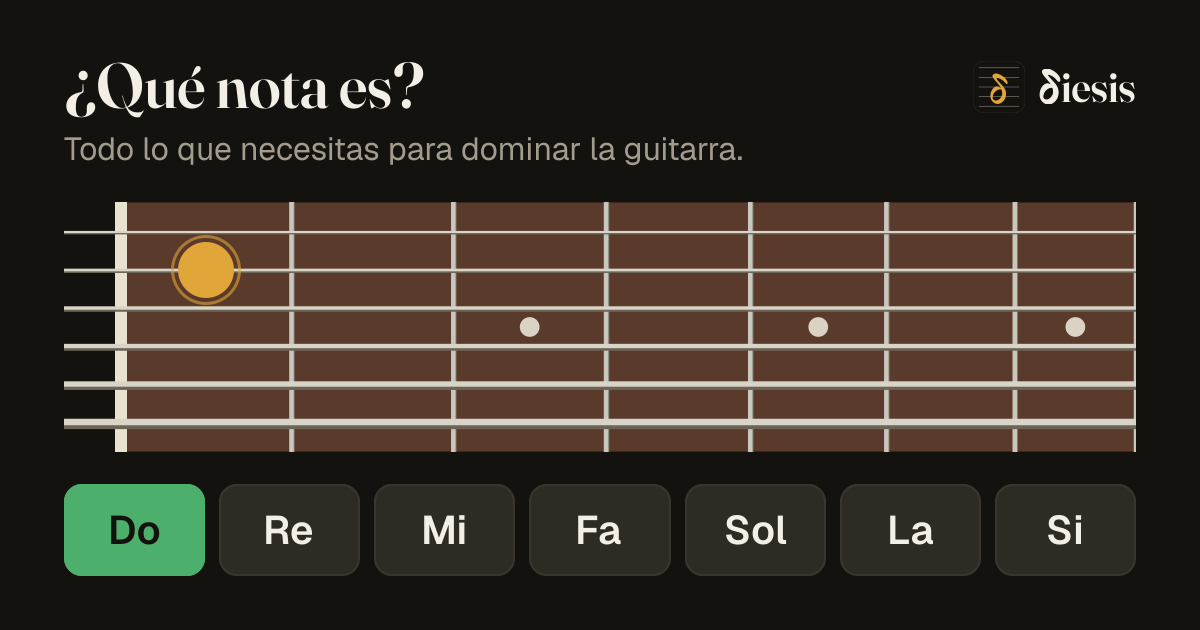
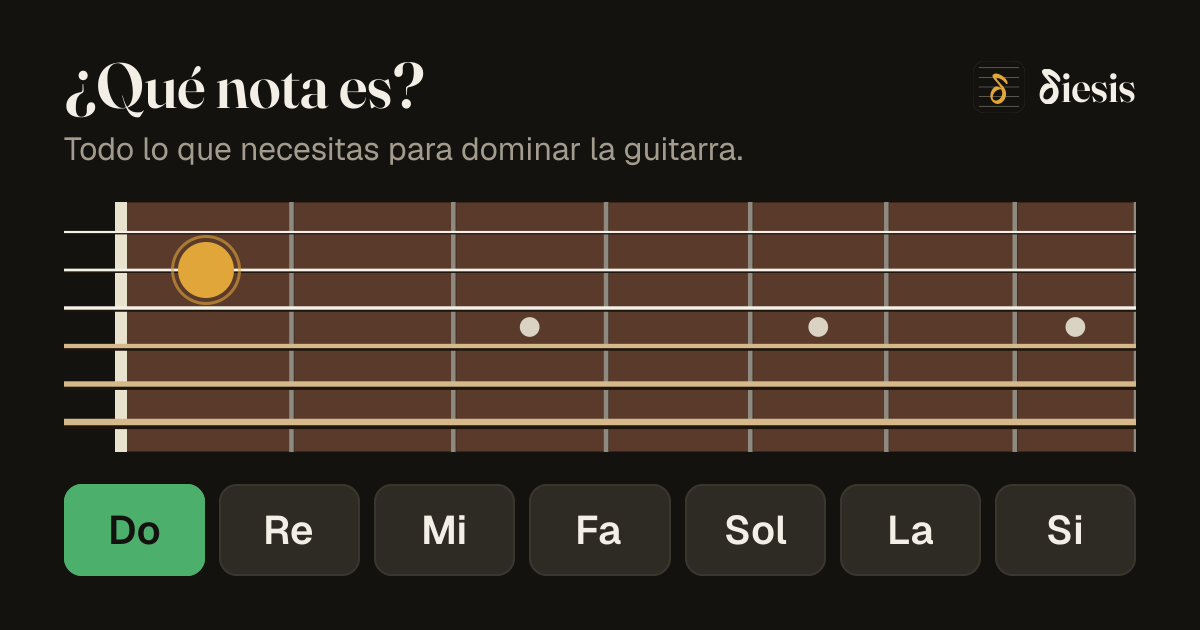
Strings you can tell from frets: plain strings bright, wound strings warm with a winding texture, frets a dim nickel (fretboard, how-it-works figures, tokens, link previews). Guitar type picked from drawings. 0.20.0

Changed region(s): [[0.0308, 0.3317, 0.9558, 0.7238], [0.0617, 0.4222, 0.1542, 0.4524]]

diff --git a/components/guitar-art.tsx b/components/guitar-art.tsx
@@ -1,0 +1,108 @@
+/* A small drawing of each guitar type for the Strings and setup picker
+   (components/strings-setup.tsx): the guitar lying face up, body on the left, headstock on the
+   right. Generic shapes that say "offset double cut", "single cut", "dreadnought", never a
+   maker's logo or exact outline. Ids match GUITAR_TYPES in lib/core/strings.ts. */
+
+type Head = "inline" | "threeByThree" | "slotted";
+type Pickup = "single" | "humbucker";
+
+interface Art {
+  body: string;
+  /** Where the neck leaves the body (x). */
+  joint: number;
+  /** Neck end (x) where the headstock starts; longer for baritones. */
+  nut: number;
+  head: Head;
+  strings: number;
+  fill: string;
+  pickups: { x: number; kind: Pickup }[];
+  soundhole?: boolean;
+  /** Bridge position (x). */
+  bridge: number;
+}
+
+// Bodies, drawn in a 250 × 90 box around the neck's centre line (y = 45).
+const OFFSET = "M84 38 C92 30 104 18 100 12 C96 6 84 10 76 14 C66 19 56 8 36 8 C16 8 6 24 6 45 C6 68 18 84 40 84 C58 84 66 74 76 76 C86 78 94 76 94 70 C94 64 88 56 84 52 Z";
+const TELE = "M84 38 C80 22 70 10 48 10 C22 10 6 24 6 46 C6 68 20 84 44 84 C62 84 72 80 84 78 C92 77 94 72 92 68 C90 62 86 56 84 52 Z";
+const SINGLECUT = "M84 38 C82 24 72 14 58 16 C48 17 44 8 30 8 C12 8 4 26 6 46 C8 68 18 84 38 84 C52 84 58 78 70 78 C80 78 90 74 92 66 C93 60 88 55 84 52 Z";
+const DOUBLECUT = "M84 38 C90 30 98 22 96 16 C93 10 82 12 74 16 C64 20 56 8 36 8 C16 8 6 24 6 45 C6 66 16 82 36 82 C56 82 64 72 74 74 C84 76 94 78 96 72 C98 66 90 58 84 52 Z";
+const SUPER = "M84 38 C92 28 110 14 106 8 C102 3 88 8 78 13 C68 18 58 8 38 8 C16 8 6 24 6 45 C6 68 18 84 40 84 C60 84 70 74 80 76 C92 78 104 80 102 72 C100 64 90 56 84 52 Z";
+const DREAD = "M100 36 C100 18 88 10 74 12 C64 14 60 22 54 22 C48 22 42 3 22 5 C6 7 2 26 2 45 C2 64 6 83 22 85 C42 87 48 68 54 68 C60 68 64 76 74 78 C88 80 100 72 100 54 Z";
+const CLASSICAL = "M96 37 C96 22 86 15 74 16 C65 17 61 24 55 24 C49 24 44 9 27 10 C12 11 8 28 8 45 C8 62 12 79 27 80 C44 81 49 66 55 66 C61 66 65 73 74 74 C86 75 96 68 96 53 Z";
+
+const WOOD = "#7a4f32";
+const DARK = "#3a3530";
+const SPRUCE = "#caa46c";
+const CEDAR = "#b9844f";
+
+const ARTS: Record<string, Art> = {
+  strat: { body: OFFSET, joint: 84, nut: 205, head: "inline", strings: 6, fill: WOOD, bridge: 22, pickups: [{ x: 44, kind: "single" }, { x: 57, kind: "single" }, { x: 70, kind: "single" }] },
+  tele: { body: TELE, joint: 84, nut: 205, head: "inline", strings: 6, fill: SPRUCE, bridge: 24, pickups: [{ x: 32, kind: "single" }, { x: 72, kind: "single" }] },
+  lesPaul: { body: SINGLECUT, joint: 84, nut: 200, head: "threeByThree", strings: 6, fill: "#9a5a2a", bridge: 30, pickups: [{ x: 42, kind: "humbucker" }, { x: 70, kind: "humbucker" }] },
+  prs: { body: DOUBLECUT, joint: 84, nut: 203, head: "threeByThree", strings: 6, fill: "#6d3f5c", bridge: 26, pickups: [{ x: 42, kind: "humbucker" }, { x: 70, kind: "humbucker" }] },
+  superstrat: { body: SUPER, joint: 84, nut: 205, head: "inline", strings: 6, fill: DARK, bridge: 24, pickups: [{ x: 42, kind: "humbucker" }, { x: 58, kind: "single" }, { x: 74, kind: "humbucker" }] },
+  baritone: { body: OFFSET, joint: 84, nut: 214, head: "inline", strings: 6, fill: WOOD, bridge: 22, pickups: [{ x: 44, kind: "humbucker" }, { x: 70, kind: "humbucker" }] },
+  seven: { body: SUPER, joint: 84, nut: 205, head: "inline", strings: 7, fill: DARK, bridge: 24, pickups: [{ x: 42, kind: "humbucker" }, { x: 74, kind: "humbucker" }] },
+  sevenLong: { body: SUPER, joint: 84, nut: 212, head: "inline", strings: 7, fill: "#3a4a5a", bridge: 24, pickups: [{ x: 42, kind: "humbucker" }, { x: 74, kind: "humbucker" }] },
+  eight: { body: SUPER, joint: 84, nut: 214, head: "inline", strings: 8, fill: DARK, bridge: 24, pickups: [{ x: 42, kind: "humbucker" }, { x: 74, kind: "humbucker" }] },
+  acoustic: { body: DREAD, joint: 100, nut: 208, head: "threeByThree", strings: 6, fill: SPRUCE, bridge: 30, pickups: [], soundhole: true },
+  classical: { body: CLASSICAL, joint: 96, nut: 204, head: "slotted", strings: 6, fill: CEDAR, bridge: 30, pickups: [], soundhole: true },
+};
+
+export function GuitarArt({ type, className }: { type: string; className?: string }) {
+  const a = ARTS[type] ?? ARTS.strat;
+  const half = 3.4 + a.strings * 0.55; // neck half-width grows with the string count
+  const top = 45 - half;
+  const bottom = 45 + half;
+  const spread = (i: number, width: number) => 45 - width + ((2 * width) / (a.strings - 1)) * i;
+  const headLen = a.head === "inline" ? 34 : 30;
+  const end = a.nut + headLen;
+
+  const head =
+    a.head === "inline" ? (
+      <path d={`M${a.nut} ${top} L${a.nut + 6} ${top - 7} C${a.nut + 18} ${top - 10} ${end - 4} ${top - 6} ${end} ${top - 2} L${end} ${bottom - 2} C${end - 8} ${bottom + 1} ${a.nut + 10} ${bottom} ${a.nut} ${bottom} Z`} fill="#3d271c" />
+    ) : (
+      <path d={`M${a.nut} ${top} L${a.nut + 4} ${top - 5} L${end} ${top - 6} L${end} ${bottom + 6} L${a.nut + 4} ${bottom + 5} L${a.nut} ${bottom} Z`} fill="#3d271c" />
+    );
+  const tuners =
+    a.head === "inline"
+      ? Array.from({ length: a.strings }, (_, i) => <circle key={i} cx={a.nut + 7 + i * ((headLen - 10) / Math.max(a.strings - 1, 1))} cy={top - 4} r={1.6} fill="#c9c6bd" />)
+      : Array.from({ length: 6 }, (_, i) => (
+          <circle key={i} cx={a.nut + 9 + (i % 3) * 8} cy={i < 3 ? top - 8 : bottom + 8} r={1.8} fill="#c9c6bd" />
+        ));
+
+  return (
+    <svg viewBox="0 0 252 90" className={className} aria-hidden>
+      {/* Neck and fretboard */}
+      <rect x={a.joint - 6} y={top} width={a.nut - a.joint + 6} height={bottom - top} fill="#5a3a2b" />
+      {Array.from({ length: 21 }, (_, i) => {
+        // Real fret spacing, fret 21 at the body joint.
+        const scale = (a.nut - a.joint) / (1 - Math.pow(2, -21 / 12));
+        const x = a.nut - scale * (1 - Math.pow(2, -(i + 1) / 12));
+        return <line key={i} x1={x} x2={x} y1={top} y2={bottom} stroke="#8f8a80" strokeWidth={0.7} />;
+      })}
+      {head}
+      {tuners}
+      <path d={a.body} fill={a.fill} stroke="#6b6158" strokeWidth={1.2} />
+      {a.soundhole ? (
+        <>
+          <circle cx={a.joint - 26} cy={45} r={a.head === "slotted" ? 9 : 10} fill="#14120f" />
+          <circle cx={a.joint - 26} cy={45} r={a.head === "slotted" ? 11.5 : 12} fill="none" stroke="#3d271c" strokeWidth={1.6} />
+        </>
+      ) : null}
+      {a.pickups.map((p) =>
+        p.kind === "humbucker" ? (
+          <rect key={p.x} x={p.x - 4.5} y={45 - half - 2} width={9} height={(half + 2) * 2} rx={1.5} fill="#14120f" stroke="#c9c6bd" strokeWidth={0.6} />
+        ) : (
+          <rect key={p.x} x={p.x - 2.2} y={45 - half - 1.5} width={4.4} height={(half + 1.5) * 2} rx={2} fill="#efe9dc" />
+        ),
+      )}
+      <rect x={a.bridge - 3} y={45 - half - 2} width={a.soundhole ? 8 : 6} height={(half + 2) * 2} rx={1.2} fill={a.soundhole ? "#3d271c" : "#c9c6bd"} />
+      {/* Strings, from the bridge to the nut; the low (wound) ones on top, bass side up */}
+      {Array.from({ length: a.strings }, (_, i) => (
+        <line key={i} x1={a.bridge} x2={a.nut} y1={spread(i, half - 1.2)} y2={spread(i, half - 1.2)} stroke={i < a.strings - 3 ? "#d6b98a" : "#f4f1e8"} strokeWidth={1 - (i / a.strings) * 0.5} />
+      ))}
+      <rect x={a.nut - 1} y={top} width={2} height={bottom - top} fill="#e9e2cf" />
+    </svg>
+  );
+}

diff --git a/components/strings-setup.tsx b/components/strings-setup.tsx
@@ -28,6 +28,7 @@ import { useSettings } from "@/lib/game/use-settings";
 import { useStrings } from "@/lib/game/use-strings";
 import type { Strings } from "@/lib/i18n";
 import { Chip } from "@/components/challenge-card";
+import { GuitarArt } from "@/components/guitar-art";
 import { cn } from "@/lib/utils";
 
 const field =
@@ -115,25 +116,32 @@ export function StringsSetup({ t, tp, lang, base }: { t: Strings["setup"]; tp: S
       </div>
 
       <Section title={t.guitar} lede={t.guitarLede}>
-        <div className="grid grid-cols-1 gap-4 sm:grid-cols-2">
-          <label className="flex flex-col gap-1.5 text-sm font-medium text-dim">
-            {t.type}
-            <select
-              className={field}
-              value={type.id}
-              onChange={(e) => {
-                const next = guitarType(e.target.value);
-                set({ type: next.id, scale: next.scale });
-                if (next.strings !== count) guitar.setTuning(tuningsFor(next.strings)[0].id);
-              }}
-            >
-              {GUITAR_TYPES.map((g) => (
-                <option key={g.id} value={g.id}>
-                  {t.types[g.id]}
-                </option>
-              ))}
-            </select>
-          </label>
+        <p className="text-sm font-medium text-dim">{t.type}</p>
+        <div role="radiogroup" aria-label={t.type} className="mt-1.5 grid grid-cols-2 gap-2 sm:grid-cols-3">
+          {GUITAR_TYPES.map((g) => {
+            const on = g.id === type.id;
+            return (
+              <button
+                key={g.id}
+                type="button"
+                role="radio"
+                aria-checked={on}
+                onClick={() => {
+                  set({ type: g.id, scale: g.scale });
+                  if (g.strings !== count) guitar.setTuning(tuningsFor(g.strings)[0].id);
+                }}
+                className={cn(
+                  "flex min-w-0 flex-col items-stretch rounded-xl border p-2 text-left outline-none transition-colors focus-visible:ring-3 focus-visible:ring-ring/50",
+                  on ? "border-amber bg-amber/10" : "border-line hover:bg-surface",
+                )}
+              >
+                <GuitarArt type={g.id} className="h-auto w-full" />
+                <span className={cn("mt-1 px-1 text-xs font-medium sm:text-sm", on ? "text-amber-text" : "text-ink")}>{t.types[g.id]}</span>
+              </button>
+            );
+          })}
+        </div>
+        <div className="mt-5 grid grid-cols-1 gap-4 sm:grid-cols-2">
           <label className="flex flex-col gap-1.5 text-sm font-medium text-dim">
             {t.scale}
             <div className="flex items-center gap-2">

diff --git a/components/fretboard.tsx b/components/fretboard.tsx
@@ -31,11 +31,13 @@ export interface FretboardProps {
 const board = {
   wood: "#5a3a2b",
   woodEdge: "#3d271c",
-  fret: "#c9c6bd",
-  fretShadow: "#7d7a72",
+  fret: "#8f8a80",
+  fretShadow: "#3d2f26",
   nut: "#e9e2cf",
-  string: "#d8d4c8",
-  stringShadow: "#6b6558",
+  string: "#f4f1e8",
+  stringWound: "#d6b98a",
+  stringWinding: "#8a7250",
+  stringShadow: "#1f150f",
   inlay: "#e8e2d3",
   fretNumber: "#a39c8e",
   highlight: "#e0a63a",
@@ -144,7 +146,7 @@ export function Fretboard({ width, height, minFret, maxFret, marks, onPick, labe
         return (
           <g key={`fret-${n}`}>
             <line x1={x + 1} y1={layout.boardTop} x2={x + 1} y2={layout.boardBottom} stroke={board.fretShadow} strokeWidth={2} />
-            <line x1={x} y1={layout.boardTop} x2={x} y2={layout.boardBottom} stroke={board.fret} strokeWidth={2.5} />
+            <line x1={x} y1={layout.boardTop} x2={x} y2={layout.boardBottom} stroke={board.fret} strokeWidth={2} />
           </g>
         );
       })}
@@ -152,10 +154,16 @@ export function Fretboard({ width, height, minFret, maxFret, marks, onPick, labe
       {Array.from({ length: strings }, (_, i) => i + 1).map((s) => {
         const y = layout.stringY(s);
         const gauge = board.stringGauges[s - 1];
+        // Strings 4 and lower are wound: warmer, with a fine winding texture, so they never read
+        // as frets. Plain strings are nearly white. Each casts a shadow onto the wood.
+        const wound = s >= 4;
         return (
           <g key={`string-${s}`}>
-            <line x1={0} y1={y + gauge * 0.6} x2={width} y2={y + gauge * 0.6} stroke={board.stringShadow} strokeWidth={gauge} />
-            <line x1={0} y1={y} x2={width} y2={y} stroke={board.string} strokeWidth={gauge} />
+            <line x1={0} y1={y + gauge * 0.8} x2={width} y2={y + gauge * 0.8} stroke={board.stringShadow} strokeWidth={gauge} opacity={0.55} />
+            <line x1={0} y1={y} x2={width} y2={y} stroke={wound ? board.stringWound : board.string} strokeWidth={gauge} />
+            {wound ? (
+              <line x1={0} y1={y} x2={width} y2={y} stroke={board.stringWinding} strokeWidth={gauge * 0.9} strokeDasharray="0.9 1.6" />
+            ) : null}
           </g>
         );
       })}

diff --git a/components/how-figures.tsx b/components/how-figures.tsx
@@ -9,10 +9,12 @@ const H = 120;
 
 const wood = "#5a3a2b";
 const woodEdge = "#3d271c";
-const fretColor = "#c9c6bd";
-const fretShadow = "#7d7a72";
-const stringColor = "#d8d4c8";
-const stringShadow = "#6b6558";
+const fretColor = "#8f8a80";
+const fretShadow = "#3d2f26";
+const stringColor = "#f4f1e8";
+const stringWound = "#d6b98a";
+const stringWinding = "#8a7250";
+const stringShadow = "#1f150f";
 const inlay = "#e8e2d3";
 const amber = "#e0a63a";
 const amberLight = "#f0c46a";
@@ -62,8 +64,9 @@ function Board({ x, y, w, h, from, to, marks }: { x: number; y: number; w: numbe
       ))}
       {gauges.map((g, i) => (
         <g key={i}>
-          <line x1={x} x2={x + w} y1={sy(i + 1) + g * 0.6} y2={sy(i + 1) + g * 0.6} stroke={stringShadow} strokeWidth={g} />
-          <line x1={x} x2={x + w} y1={sy(i + 1)} y2={sy(i + 1)} stroke={stringColor} strokeWidth={g} />
+          <line x1={x} x2={x + w} y1={sy(i + 1) + g * 0.8} y2={sy(i + 1) + g * 0.8} stroke={stringShadow} strokeWidth={g} opacity={0.55} />
+          <line x1={x} x2={x + w} y1={sy(i + 1)} y2={sy(i + 1)} stroke={i >= 3 ? stringWound : stringColor} strokeWidth={g} />
+          {i >= 3 ? <line x1={x} x2={x + w} y1={sy(i + 1)} y2={sy(i + 1)} stroke={stringWinding} strokeWidth={g * 0.9} strokeDasharray="0.9 1.6" /> : null}
         </g>
       ))}
       {cells.map((n) => (

diff --git a/lib/lang.ts b/lib/lang.ts
@@ -34,7 +34,7 @@ export async function appMetadata(path: string, title?: string): Promise<Metadat
       description: t.meta.description,
       siteName: "Diesis",
       locale: t.code === "es" ? "es_ES" : "en_US",
-      images: [{ url: t.code === "es" ? "/og-es.png?v=3" : "/og.png?v=3", width: 1200, height: 630 }],
+      images: [{ url: t.code === "es" ? "/og-es.png?v=4" : "/og.png?v=4", width: 1200, height: 630 }],
     },
   };
 }

diff --git a/app/es/privacy/page.tsx b/app/es/privacy/page.tsx
@@ -11,7 +11,7 @@ export const metadata: Metadata = {
     description: t.meta.privacyDescription,
     siteName: "Diesis",
     locale: "es_ES",
-    images: [{ url: "/og-es.png?v=3", width: 1200, height: 630 }],
+    images: [{ url: "/og-es.png?v=4", width: 1200, height: 630 }],
   },
   alternates: { canonical: "/es/privacy", languages: { en: "/privacy", es: "/es/privacy", "x-default": "/privacy" } },
 };

diff --git a/app/es/page.tsx b/app/es/page.tsx
@@ -11,7 +11,7 @@ export const metadata: Metadata = {
     description: t.meta.description,
     siteName: "Diesis",
     locale: "es_ES",
-    images: [{ url: "/og-es.png?v=3", width: 1200, height: 630 }],
+    images: [{ url: "/og-es.png?v=4", width: 1200, height: 630 }],
   },
   alternates: { canonical: "/es", languages: { en: "/", es: "/es", "x-default": "/" } },
 };

diff --git a/app/layout.tsx b/app/layout.tsx
@@ -23,7 +23,7 @@ export const metadata: Metadata = {
     title: "Diesis — everything you need to master the guitar",
     description,
     siteName: "Diesis",
-    images: [{ url: "/og.png?v=3", width: 1200, height: 630 }],
+    images: [{ url: "/og.png?v=4", width: 1200, height: 630 }],
   },
   twitter: { card: "summary_large_image" },
 };

diff --git a/CLAUDE.md b/CLAUDE.md
@@ -166,7 +166,9 @@ Todoist project records what is still to do.
   skin on the web needs an account first.
 - Note names use ♯ (U+266F). Sharps by default; a flat spelling exists in the core for a future
   setting. Enharmonics are one pitch class; the quiz never asks for a spelling.
-- Fretboard drawing: nut on the left, string 1 (high E) at the top, fret numbers under the
+- Fretboard drawing (strings restyled 2026-09-26, Will: "the strings kind of look like the frets"):
+  plain strings near white, wound strings (4 and lower) warm #d6b98a with a dashed winding
+  texture, a shadow on the wood; frets a dim nickel #8f8a80 so they recede. Nut on the left, string 1 (high E) at the top, fret numbers under the
   board, real logarithmic fret spacing scaled to the range, open strings get a zone left of the
   nut. The landing's `TryIt` and tool cards draw with this same `Fretboard`.
 - Audio: placeholder samples synthesised by `tools/gen-samples.mjs` (Karplus-Strong, one WAV per
@@ -248,7 +250,9 @@ Todoist project records what is still to do.
   on the lowest, plain on the top three). Nylon is not modelled (sold by tension). Setup numbers
   are typical factory starting points, said so on the page; then six steps after a string change.
   Core `lib/core/strings.ts`, storage `diesis_strings` (`lib/game/use-strings.ts`). No octave
-  numbers on note names (EN and ES count octaves differently).
+  numbers on note names (EN and ES count octaves differently). The guitar type is picked from
+  cards with a drawing of each (`components/guitar-art.tsx`: generic silhouettes, the guitar
+  lying face up, never a maker's logo), Will 2026-09-26.
 - **Amazon affiliate links (Will, 2026-09-26; store id `willdafer-21`, Amazon.es).** Search
   links, not product links (`amazonSearch` in `lib/core/shop.ts`): no per-product codes, never
   stale. Today only in Setup → Strings and setup: "Find {set} strings on Amazon.es" for the

diff --git a/docs/design-system.md b/docs/design-system.md
@@ -32,8 +32,8 @@ with a 22% corner radius. Source: `public/favicon.svg`, mirrored in `components/
 | correct | #4caf6b | right answer, on the board and the button |
 | wrong | #d64545 | wrong button |
 
-Fretboard: wood #5a3a2b with a darker edge #3d271c, frets #c9c6bd over a shadow #7d7a72, bone
-nut #e9e2cf, strings #d8d4c8 over #6b6558 with gauges from 1.2 (high E) to 3.6 (low E), pearl
+Fretboard: wood #5a3a2b with a darker edge #3d271c, frets #8f8a80 (dim nickel, so they never compete with the strings) over a shadow #3d2f26, bone
+nut #e9e2cf, plain strings #f4f1e8 and wound strings (4 and lower) #d6b98a with a dashed winding #8a7250, each over a shadow #1f150f at 55%, with gauges from 1.2 (high E) to 3.6 (low E), pearl
 inlays #e8e2d3 at 3 5 7 9 12 15 17 19 21 24, doubled at 12 and 24.
 
 Color never carries meaning alone: the lit position is also larger than an inlay and carries a

diff --git a/CHANGELOG.md b/CHANGELOG.md
@@ -3,6 +3,12 @@
 Written for the people using it, not for the code. Newest first. Version matches
 `package.json`.
 
+## 0.20.0 — 26 September 2026, strings you can tell from frets
+
+- On every neck in Diesis the strings now look like strings: the plain ones bright, the wound
+  ones warm with their winding, and the frets quieter behind them.
+- In Strings and setup you pick your type of guitar from drawings of each one.
+
 ## 0.19.1 — 26 September 2026, fits on an iPhone again
 
 - On iPhone, the tool cards on the home page ran off the right edge of the screen and cut
